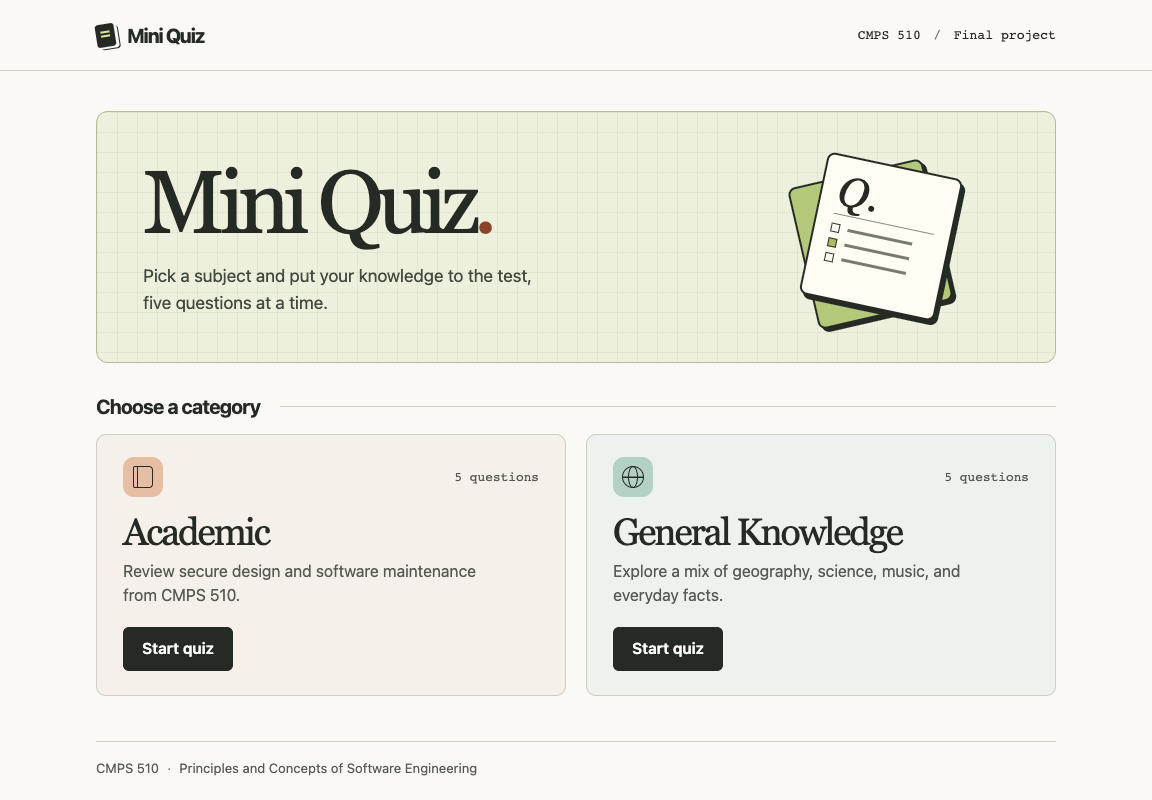
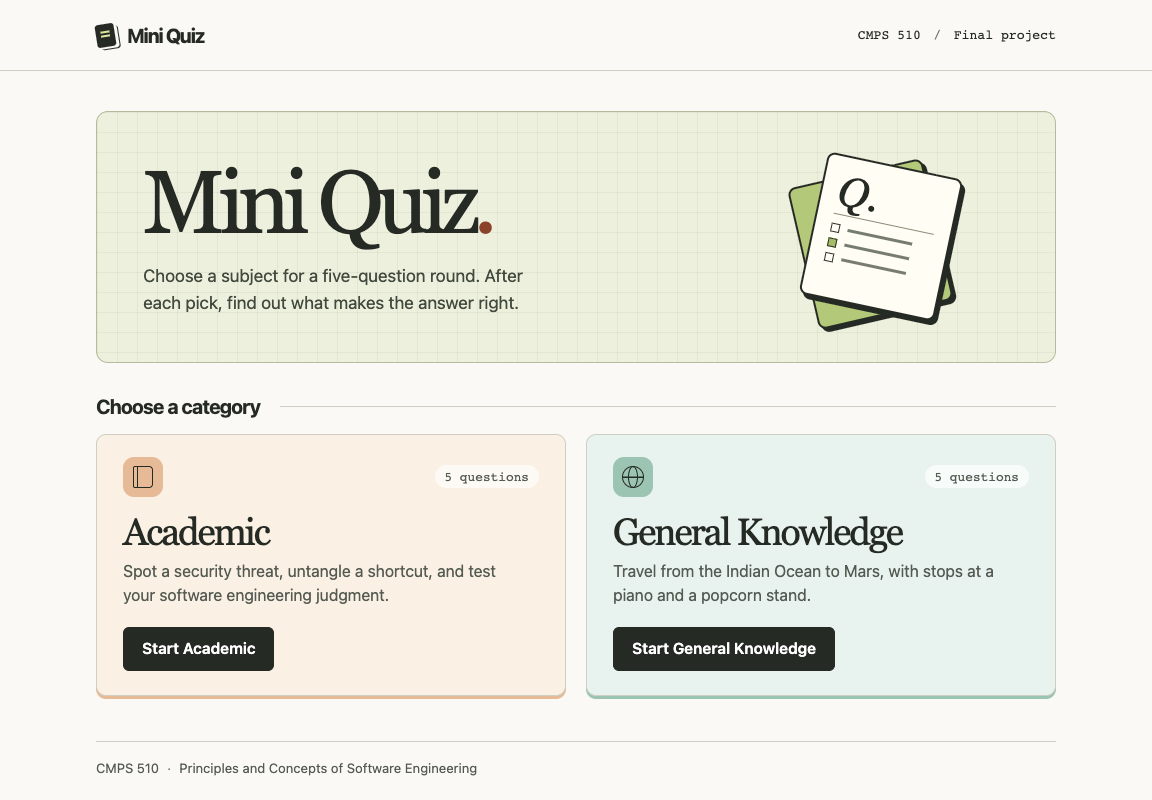
Polish category cards, answer feedback, and quiz results

diff --git a/styles.css b/styles.css
@@ -47,9 +47,9 @@ h1, h2, h3 { margin: 0; }
 h2 { font-size: 1.25rem; letter-spacing: -.035em; }
 .rule { height: 1px; background: var(--line); flex: 1; }
 .categories { display: grid; grid-template-columns: repeat(2,minmax(0,1fr)); gap: 20px; }
-.category { padding: 22px 26px 24px; border: 1px solid var(--line); border-radius: 10px; display: flex; flex-direction: column; align-items: start; }
-.academic { background: #f5f0e9; --accent: #e6bea4; }
-.general { background: #edf2ef; --accent: #b3d1c5; }
+.category { position: relative; box-shadow: 0 3px 0 var(--accent); padding: 22px 26px 24px; border: 1px solid var(--line); border-radius: 10px; display: flex; flex-direction: column; align-items: start; }
+.academic { background: #faf0e4; --accent: #e6ba97; }
+.general { background: #e8f2ee; --accent: #9bc4b3; }
 .card-meta, .round-meta { width: 100%; display: flex; justify-content: space-between; align-items: center; gap: 12px; }
 .card-meta { color: var(--muted); font-size: .8rem; }
 .subject-icon { position: relative; width: 40px; height: 40px; background: var(--accent); border-radius: 11px; }
@@ -65,24 +65,50 @@ button:hover { background: #414a3d; }
 button:focus-visible { outline: 3px solid #3c60ad; outline-offset: 3px; }
 h1:focus { outline: none; }
 .category button { margin-top: auto; }
+.category button::after { content: ""; position: absolute; inset: 0; border-radius: 10px; }
+.category:hover, .category:focus-within { border-color: var(--ink); }
+.card-meta > span:last-child { padding: 2px 10px; border-radius: 20px; background: #ffffffa8; }
+#position { margin: 24px 0 4px; }
+#category-name { font-weight: bold; }
 footer { padding: 18px 0 24px; border-top: 1px solid var(--line); font-size: .82rem; color: var(--muted); }
 .panel { max-width: 740px; margin: 0 auto; padding: clamp(20px, 4vw, 42px); background: #fffefb; border: 1px solid var(--line); border-radius: 12px; }
-progress { width: 100%; height: 8px; margin: 16px 0 12px; accent-color: #596d36; }
+progress {
+  display: block; appearance: none; width: 100%; height: 8px; margin: 0 0 24px;
+  border: 0; border-radius: 8px; overflow: hidden; background: #e3e7dc;
+}
+progress::-webkit-progress-bar { background: #e3e7dc; }
+progress::-webkit-progress-value { background: #536b3d; }
+progress::-moz-progress-bar { background: #536b3d; }
 .eyebrow, .score-label { color: var(--muted); }
 .panel h1 { font-size: clamp(1.8rem,4vw,2.7rem); line-height: 1.12; letter-spacing: -.04em; }
 .answers { margin-top: 24px; display: grid; gap: 10px; }
 .answers button, .secondary { background: white; color: var(--ink); border-color: #a8ada1; }
-.answers button { display: flex; align-items: center; gap: 12px; font-weight: 500; text-align: left; line-height: 1.45; }
-.answers button:hover, .secondary:hover { background: #f0f1e9; }
+.answers button { min-height: 54px; display: flex; align-items: center; gap: 12px; font-weight: 500; text-align: left; line-height: 1.45; }
+.answers button:not([aria-disabled]):hover, .secondary:hover { background: #f0f1e9; }
 .letter { font: .82rem ui-monospace,monospace; border: 1px solid #bcc0b5; border-radius: 4px; padding: 4px 7px; }
 .answers [aria-disabled="true"] { cursor: default; }
 .answers .right, .answers .right:hover { background: #e0efd9; border-color: #608350; }
 .answers .wrong, .answers .wrong:hover { background: #fae6df; border-color: #b66c58; }
 #feedback { line-height: 1.55; }
+#feedback:not(:empty) { padding: 12px 16px; border-left: 3px solid #829568; background: #f3f5ed; }
+#feedback strong { display: block; }
 #feedback:empty { margin: 0; }
-#result { background: #edf0dd; }
-#total { font: 4.5rem/1 Georgia,serif; letter-spacing: -.08em; margin: 6px 0 28px; }
-.score-label { margin: 28px 0 0; }
+#result { background: #f7f8ef; }
+.result-summary {
+  display: flex; align-items: center; gap: 24px; padding-block: 24px;
+  border-block: 1px solid var(--line); margin: 24px 0;
+}
+.score-ring {
+  flex: none; width: 104px; height: 104px; border-radius: 50%;
+  display: flex; flex-direction: column; align-items: center; justify-content: center;
+  background: radial-gradient(circle closest-side, #f7f8ef 81%, transparent 83%),
+    conic-gradient(#516c3a var(--percent), #dce2cf 0);
+}
+.score-ring strong { font-size: 1.5rem; }
+.score-ring span { font-size: .82rem; color: var(--muted); }
+#total { font: 3rem/1.1 Georgia, serif; letter-spacing: -.06em; margin: 4px 0; }
+.score-label { margin: 0; }
+#performance { max-width: 40ch; margin: 8px 0 0; line-height: 1.5; }
 .actions { display: flex; gap: 12px; flex-wrap: wrap; }
 @media (max-width: 640px) {
   .bar { height: 58px; }
@@ -95,4 +121,11 @@ progress { width: 100%; height: 8px; margin: 16px 0 12px; accent-color: #596d36;
   .section-title { margin-top: 24px; }
   .category { padding: 18px 20px; }
   .course { font-size: .75rem; }
+}
+
+@media (max-width: 440px) {
+  .result-summary { align-items: start; gap: 14px; }
+  .score-ring { width: 84px; height: 84px; }
+  .actions { flex-direction: column; }
+  #next { width: 100%; }
 }

diff --git a/index.html b/index.html
@@ -16,34 +16,38 @@
     <section id="landing" aria-labelledby="title">
       <div class="cover">
         <div class="intro"><h1 id="title" tabindex="-1">Mini Quiz<span>.</span></h1>
-          <p>Pick a subject and put your knowledge to the test, five questions at a time.</p>
+          <p>Choose a subject for a five-question round. After each pick, find out what makes the answer right.</p>
         </div>
         <div class="illustration" aria-hidden="true"><div class="card-back"></div><div class="sheet"><b>Q.</b><i></i><i></i><i></i></div></div>
       </div>
       <div class="section-title"><h2>Choose a category</h2><span class="rule"></span></div>
       <div class="categories">
         <article class="category academic"><div class="card-meta"><span class="subject-icon book" aria-hidden="true"></span><span>5 questions</span></div>
-          <h3>Academic</h3><p>Review secure design and software maintenance from CMPS 510.</p>
-          <button data-category="academic" aria-label="Start Academic quiz">Start quiz</button>
+          <h3>Academic</h3><p>Spot a security threat, untangle a shortcut, and test your software engineering judgment.</p>
+          <button data-category="academic" aria-label="Start Academic quiz">Start Academic</button>
         </article>
         <article class="category general"><div class="card-meta"><span class="subject-icon globe" aria-hidden="true"></span><span>5 questions</span></div>
-          <h3>General Knowledge</h3><p>Explore a mix of geography, science, music, and everyday facts.</p>
-          <button data-category="general" aria-label="Start General Knowledge quiz">Start quiz</button>
+          <h3>General Knowledge</h3><p>Travel from the Indian Ocean to Mars, with stops at a piano and a popcorn stand.</p>
+          <button data-category="general" aria-label="Start General Knowledge quiz">Start General Knowledge</button>
         </article>
       </div>
       <noscript><p>Please enable JavaScript in your browser to play the quiz.</p></noscript>
     </section>
     <section id="round" class="panel" aria-labelledby="prompt" hidden>
       <div class="round-meta"><span id="category-name"></span><span id="score"></span></div>
+      <p class="eyebrow" id="position"></p>
       <progress id="progress" aria-label="Questions answered"></progress>
-      <p class="eyebrow" id="position"></p><h1 id="prompt" tabindex="-1"></h1>
+      <h1 id="prompt" tabindex="-1"></h1>
       <div id="answers" class="answers"></div>
-      <p id="feedback" role="status" aria-atomic="true"></p><button id="next" hidden>Next question</button>
+      <p id="feedback" role="status" aria-atomic="true"></p><button id="next" hidden>Next Question</button>
     </section>
     <section id="result" class="panel" aria-labelledby="result-title" hidden>
       <p id="result-category" class="eyebrow"></p><h1 id="result-title" tabindex="-1">Quiz complete.</h1>
-      <p class="score-label">Your final score</p><p id="total"></p>
-      <div class="actions"><button id="retry">Try Again</button><button id="choose" class="secondary">Choose a category</button></div>
+      <div class="result-summary">
+        <div class="score-ring"><strong id="percentage"></strong><span>correct</span></div>
+        <div><p class="score-label">Your final score</p><p id="total"></p><p id="performance"></p></div>
+      </div>
+      <div class="actions"><button id="retry">Try Again</button><button id="choose" class="secondary">Choose Another Category</button></div>
     </section>
   </main>
   <footer>CMPS 510 <span>·</span> Principles and Concepts of Software Engineering</footer>

diff --git a/quiz.js b/quiz.js
@@ -31,7 +31,7 @@ function showQuestion() {
   byId("score").textContent = `Score · ${score} / ${count}`;
   byId("prompt").textContent = question.prompt;
   byId("answers").replaceChildren();
-  byId("feedback").textContent = "";
+  byId("feedback").replaceChildren();
   byId("next").hidden = true;
 
   question.choices.forEach((choice, position) => {
@@ -55,16 +55,21 @@ function checkAnswer(selected) {
   if (right) score += 1;
 
   const buttons = byId("answers").children;
-  for (const button of buttons) button.setAttribute("aria-disabled", "true");
+  for (const button of buttons) {
+    button.setAttribute("aria-disabled", "true");
+    button.tabIndex = -1;
+  }
   buttons[question.correct].classList.add("right");
   if (!right) buttons[selected].classList.add("wrong");
-  const verdict = right ? "Correct!" : `Incorrect. The correct answer is ${question.choices[question.correct]}.`;
-  byId("feedback").textContent = `${verdict} ${question.explanation}`;
+  buttons[question.correct].querySelector(".letter").textContent = "✓";
+  if (!right) buttons[selected].querySelector(".letter").textContent = "×";
+  const verdict = document.createElement("strong");
+  verdict.textContent = right ? "Correct!" : `Incorrect. The answer is ${question.choices[question.correct]}.`;
+  byId("feedback").replaceChildren(verdict, document.createTextNode(question.explanation));
   byId("progress").value = index + 1;
   byId("score").textContent = `Score · ${score} / ${category.questions.length}`;
-  byId("next").textContent = index + 1 === category.questions.length ? "See final score" : "Next question";
+  byId("next").textContent = index + 1 === category.questions.length ? "See Final Score" : "Next Question";
   byId("next").hidden = false;
-  for (const button of buttons) button.tabIndex = -1;
 }
 
 byId("next").addEventListener("click", () => {
@@ -74,11 +79,26 @@ byId("next").addEventListener("click", () => {
     showQuestion();
     return;
   }
+  showResult();
+});
+
+function showResult() {
+  const count = category.questions.length;
+  const percentage = Math.round(score / count * 100);
+  let message = "Give it another go and see which explanations stuck.";
+  if (score === count) {
+    message = "A clean sweep! Try the other category for a new challenge.";
+  } else if (percentage >= 60) {
+    message = "You got more than half right. Try again to catch the ones you missed.";
+  }
   byId("result-category").textContent = category.name;
-  byId("total").textContent = `${score} / ${category.questions.length}`;
+  byId("total").textContent = `${score} / ${count}`;
+  byId("percentage").textContent = `${percentage}%`;
+  byId("result").style.setProperty("--percent", `${percentage}%`);
+  byId("performance").textContent = message;
   showScreen("result");
   byId("result-title").focus();
-});
+}
 
 for (const button of document.querySelectorAll("[data-category]")) {
   button.addEventListener("click", () => startRound(categories[button.dataset.category]));

diff --git a/questions.js b/questions.js
@@ -57,10 +57,10 @@ const categories = {
         explanation: "Pressing a piano key moves a hammer that strikes the strings."
       },
       {
-        prompt: "Which line divides Earth into the Northern and Southern Hemispheres?",
-        choices: ["Prime Meridian", "Equator", "Tropic of Cancer", "Arctic Circle"],
+        prompt: "What makes a popcorn kernel burst when heated?",
+        choices: ["Its starch freezes", "Steam builds up inside the hull", "Its oil turns into sugar", "Air enters through the tip"],
         correct: 1,
-        explanation: "The equator circles Earth at zero degrees latitude."
+        explanation: "Water inside the kernel turns to steam. Pressure builds until the hull splits and the starch expands."
       },
       {
         prompt: "Which gas do plants take in to make sugars during photosynthesis?",

diff --git a/README.md b/README.md
@@ -1,6 +1,6 @@
 # Mini Quiz
 
-A five-question quiz for the CMPS 510 final individual project. Choose **Academic** for software engineering or **General Knowledge** for a mix of science, geography, and music. Each answer gives immediate feedback and a short explanation. A correct answer earns one point. At the end, see your score out of five, try the same round again, or choose the other category.
+A five-question quiz for the CMPS 510 final individual project. Choose **Academic** for software engineering or **General Knowledge** for a mix of science, geography, and music. Each answer gives immediate feedback and a short explanation. A correct answer earns one point. At the end, see your score out of five and the percentage you answered correctly. Try the round again or switch categories.
 
 Curious why Mars looks red? Try General Knowledge. Prefer to untangle a tricky bit of code? Start with Academic.
 
@@ -10,7 +10,7 @@ Curious why Mars looks red? Try General Knowledge. Prefer to untangle a tricky b
 
 ## Run locally
 
-Open `index.html` in a browser and select **Start quiz** under either category. The app runs entirely in the browser using plain HTML, CSS, and JavaScript. Refreshing the page starts a new session.
+Open `index.html` in a browser and select a category card. The app runs entirely in the browser using plain HTML, CSS, and JavaScript. Refreshing the page starts a new session.
 
 ## How the quiz works
 
@@ -20,8 +20,8 @@ Open `index.html` in a browser and select **Start quiz** under either category. 
 
 ## Score check
 
-In the Academic round, selecting **B, A, A, D, A** gives **3/5**. Questions 1, 3, and 4 earn one point each. This run was checked in Chrome, along with an all-incorrect run (0/5), a perfect General Knowledge run (5/5), repeat clicks, retry, category switching, and the phone layout.
+In the Academic round, selecting **B, A, A, D, A** gives **3/5 (60%)**. Questions 1, 3, and 4 earn one point each. This run was checked in Chrome, along with an all-incorrect run (0/5), a perfect General Knowledge run (5/5), repeat clicks, retry, category switching, and the phone layout.
 
-## Course sources and tools
+## Course sources
 
 The Academic questions use concepts from Dr. Tsige Tessema's CMPS 510 lectures *Secure and Dependable Software Engineering* and *Software Maintenance and Evolution*. The questions and examples were written for this quiz.
